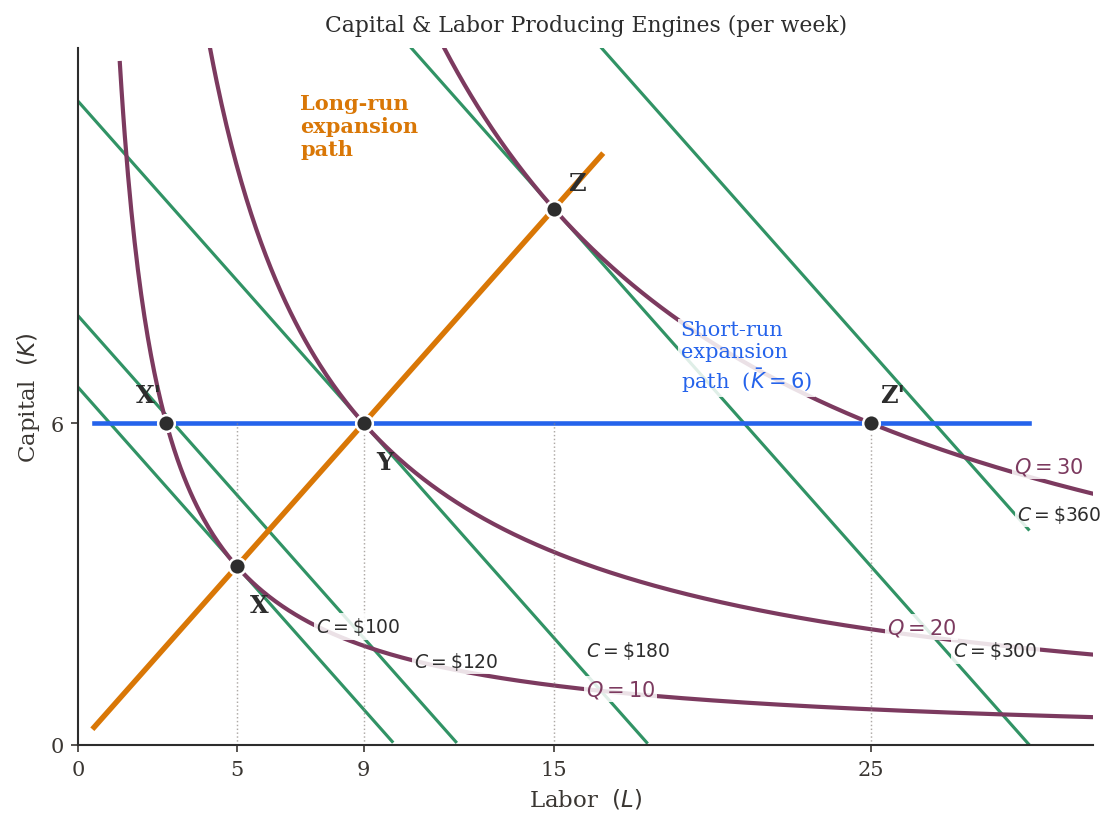
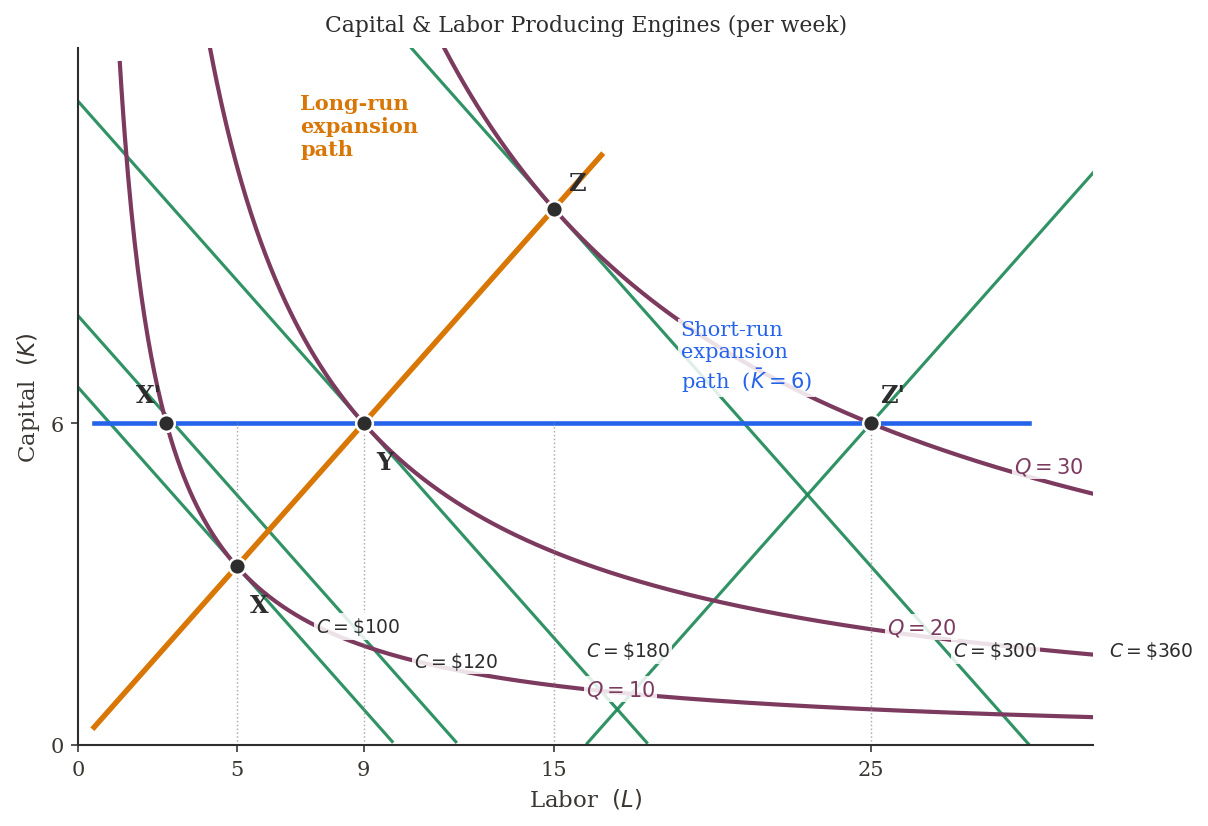
ch08: route C=$360 through Z' + add W8.5 explanation figure
(1) Engines isoquants figure: override the $360 isocost line so it passes through Z' = (25, 6) exactly. The other 4 isocost lines ($100, $120, $180, $300) keep their original formula-based positions. The $360 label is now schematic (the actual cost along the line, with w=10/r=15, is $340), but the visual relationship 'Z' lies on the C=$360 line' now reads correctly.

(2) Walkthrough 8.5 companion figure: new fig-engines-w85-stc-kbar4.png shows the SR cost curve STC(q; K-bar=4) plotted against the LR envelope LRC(q) = 0.02721q. Marks the 4 W8.5 table points (q=16/32/48/64), the SR-LR tangency at q=47.79, and the $49M/yr SR-LR wedge at the firm's current target q=32. Replaces the previous 5-K-bar envelope slide (sr-lr-envelope-figure) — the new slide id is walkthrough-8-5-figure and sits immediately after walkthrough-8-5 in the deck.

Section count: 83 (unchanged — slide swap in place).

diff --git a/econ2316/ch08-costs-of-production/index.html b/econ2316/ch08-costs-of-production/index.html
@@ -2319,16 +2319,18 @@
   <aside class="notes">Walkthrough 8.5 — the algebraic backbone of the headline LR-envelope figure on the next slide. Pacing: open with Problem + (under Set up box, hidden) — give students 60 seconds to write down the formulas. Press → to reveal Set up (1), then the 4-row Solve table (2). At this point students should notice SR &gt; LR everywhere except near q ≈ 48. Press → for the tangency calculation (3): K̄ = K*_LR(q) = 0.0837·q solves to q = 47.79 GWh, where STC exactly equals LRC = 1.300. Final → reveals (4) the Check + Takeaway connecting back to W8.1: the \$49M wedge at q=32 is IDENTICAL to the installed-bundle wedge from W8.1, because the firm's actual K=4 IS the SR-fixed K̄=4 here. Sets up the next slide's gigafactory TC-envelope visualization. Key teaching moves: (i) under CRS Cobb-Douglas, LRC is LINEAR in q (0.02721·q); (ii) SR cost is convex above LRC, tangent at exactly one q for each K̄; (iii) the SR-LR gap is asymmetric — over-capitalized firms at low q hurt more than under-capitalized firms at high q, because the marginal cost of labor diverges as L grows large.</aside>
 </section>
 
-<!-- ===== Slide 28 — Gigafactory TC envelope (existing) ===== -->
-<section id="sr-lr-envelope-figure">
-  <h2><i class="fa-solid fa-chart-area" style="color: var(--accent-color);"></i> The Headline Figure &mdash; LR Cost as Lower Envelope of SR Curves</h2>
+<!-- ===== NEW — W8.5 explanation figure (replaces the old envelope figure) ===== -->
+<section id="walkthrough-8-5-figure">
+  <h2><i class="fa-solid fa-chart-area" style="color: var(--accent-color);"></i> Walkthrough 8.5 &mdash; Reading the SR vs LR Cost Picture</h2>
   <div style="text-align: center;">
-    <img alt="Family of short-run total cost curves (K-bar = 1, 2, 4, 6, 8 B$) and the linear long-run envelope under CRS Cobb-Douglas; each SR curve is tangent to LR at the output where K-bar is the LR-optimal capital stock; the gigafactory operating point (q=32, c*=0.87) sits at the LR optimum" src="figures/fig-sr-lr-envelope.png" class="figure" style="max-height: 420px;">
+    <img alt="Walkthrough 8.5 explanation figure. The horizontal axis is quantity of batteries q in GWh/yr (ticks at 0, 16, 32, 48, 64). The vertical axis is total cost in billion dollars per year. A dark-blue straight line from the origin is the LR envelope LRC(q) = 0.02721·q. A light-blue convex curve is the SR cost STC(q; K-bar=4); it starts at the fixed-cost intercept r·K-bar = 0.52 at q=0 and rises convexly. Four black dots mark the W8.5 table points on the SR curve at (16, $0.65B), (32, $0.92B), (48, $1.31B), and (64, $1.79B). A red dot at (47.79, $1.30B) marks the SR-LR tangency where STC = LRC. An orange vertical segment at q=32 connects the LR point ($0.87B) to the SR point ($0.92B), annotated as the $49M/yr SR-LR wedge — the gap at the firm's current target output." src="figures/fig-engines-w85-stc-kbar4.png" class="figure" style="max-height: 470px;">
   </div>
-  <div class="key-result" style="margin-top: 8px;">
-    <p style="margin: 0; font-size: 12.5pt;"><strong>Reading the figure.</strong> Each SR curve has its own minimum at a different output. The LR curve sits <em>below</em> all of them, touching each one at the output where that \(\bar K\) is the LR-optimal capital stock. Under CRS, the LR envelope is <strong>linear</strong> &mdash; \(c_{LR}(q) = 0.0272 \cdot q\). <em>The LR cost curve is the firm's planning curve.</em></p>
+  <div class="key-result" style="margin-top: 8px; padding: 8px 14px;">
+    <p style="margin: 0; font-size: 11.5pt; line-height: 1.45;">
+      <strong>Reading the figure.</strong> The SR curve at \(\bar K = 4\) starts at fixed cost \(r\bar K = \$0.52\)B and rises convexly. The four W8.5 table points sit on this curve. The SR curve <em>kisses</em> the LR line at \(q = 47.79\) GWh &mdash; the unique output where \(\bar K = 4\) is LR-optimal. At the firm&rsquo;s current target \(q = 32\), the SR curve sits \$0.049B = <strong>\$49M/yr above LR</strong> &mdash; identical to the installed-bundle wedge from W8.1.
+    </p>
   </div>
-  <aside class="notes">The chapter's headline figure. Two visual takeaways: (1) at each \(\bar K\), the SR curve passes BELOW the SR curves of other \(\bar K\) at outputs near where \(\bar K\) is LR-optimal, and above them elsewhere; (2) the LR envelope is the lower hull of the family. Under CRS Cobb-Douglas, LR cost is LINEAR in \(q\) — the envelope is a straight line. The dot at \(q = 32\) is where the gigafactory operates at the cost-min. The envelope construction is formalized in Calculus Corner 8.4 (the "Viner-Wong correction" — Jacob Viner's 1931 graphical mistake where his draftsman drew the envelope passing through the bottom of every SR-AC curve; Viner published anyway with a footnote). The pedagogical point: at each output, the firm should choose the \(\bar K\) that brings SR cost down to LR — but it's stuck with its installed \(\bar K\) in the short run, hence the wedge.</aside>
+  <aside class="notes">Companion figure for W8.5. Pedagogical reading: (1) The SR cost curve at K̄=4 starts at \$0.52B (the fixed cost r·K̄) and rises convexly — increasing marginal cost as the firm pushes labor onto a fixed capital stock, the chapter's central friction. (2) The LR envelope is LINEAR — that's the CRS Cobb-Douglas signature. (3) The SR curve is tangent to LR at q = 47.79 GWh, where the firm's K̄=4 happens to be the LR-optimal capital. To the LEFT of tangency the firm is over-capitalized (capital sitting underused). To the RIGHT of tangency the firm is under-capitalized (capital being overworked, labor straining). (4) At q=32 the firm is over-capitalized by ~\$1.32B of installed K (since K*_LR(32) ≈ 2.68, but K̄ = 4). The vertical orange segment shows the resulting \$49M/yr wedge — which closes only as K̄ depreciates or the firm scales up output toward q ≈ 47.79. (5) Connect to W8.1: the firm's actual installed (K, L) = (4, 4) at q = 32 IS the SR optimum at K̄ = 4 → same wedge value computed two ways. Replaces the prior 5-K̄-envelope figure; that view is conceptually summarized by the §8.7 ATC envelope on slide 52.</aside>
 </section>
 
 <!-- ===== Slide 29 — Airlines application ===== -->

diff --git a/econ2316/ch08-costs-of-production/presentation.html b/econ2316/ch08-costs-of-production/presentation.html
@@ -2319,16 +2319,18 @@
   <aside class="notes">Walkthrough 8.5 — the algebraic backbone of the headline LR-envelope figure on the next slide. Pacing: open with Problem + (under Set up box, hidden) — give students 60 seconds to write down the formulas. Press → to reveal Set up (1), then the 4-row Solve table (2). At this point students should notice SR &gt; LR everywhere except near q ≈ 48. Press → for the tangency calculation (3): K̄ = K*_LR(q) = 0.0837·q solves to q = 47.79 GWh, where STC exactly equals LRC = 1.300. Final → reveals (4) the Check + Takeaway connecting back to W8.1: the \$49M wedge at q=32 is IDENTICAL to the installed-bundle wedge from W8.1, because the firm's actual K=4 IS the SR-fixed K̄=4 here. Sets up the next slide's gigafactory TC-envelope visualization. Key teaching moves: (i) under CRS Cobb-Douglas, LRC is LINEAR in q (0.02721·q); (ii) SR cost is convex above LRC, tangent at exactly one q for each K̄; (iii) the SR-LR gap is asymmetric — over-capitalized firms at low q hurt more than under-capitalized firms at high q, because the marginal cost of labor diverges as L grows large.</aside>
 </section>
 
-<!-- ===== Slide 28 — Gigafactory TC envelope (existing) ===== -->
-<section id="sr-lr-envelope-figure">
-  <h2><i class="fa-solid fa-chart-area" style="color: var(--accent-color);"></i> The Headline Figure &mdash; LR Cost as Lower Envelope of SR Curves</h2>
+<!-- ===== NEW — W8.5 explanation figure (replaces the old envelope figure) ===== -->
+<section id="walkthrough-8-5-figure">
+  <h2><i class="fa-solid fa-chart-area" style="color: var(--accent-color);"></i> Walkthrough 8.5 &mdash; Reading the SR vs LR Cost Picture</h2>
   <div style="text-align: center;">
-    <img alt="Family of short-run total cost curves (K-bar = 1, 2, 4, 6, 8 B$) and the linear long-run envelope under CRS Cobb-Douglas; each SR curve is tangent to LR at the output where K-bar is the LR-optimal capital stock; the gigafactory operating point (q=32, c*=0.87) sits at the LR optimum" src="figures/fig-sr-lr-envelope.png" class="figure" style="max-height: 420px;">
+    <img alt="Walkthrough 8.5 explanation figure. The horizontal axis is quantity of batteries q in GWh/yr (ticks at 0, 16, 32, 48, 64). The vertical axis is total cost in billion dollars per year. A dark-blue straight line from the origin is the LR envelope LRC(q) = 0.02721·q. A light-blue convex curve is the SR cost STC(q; K-bar=4); it starts at the fixed-cost intercept r·K-bar = 0.52 at q=0 and rises convexly. Four black dots mark the W8.5 table points on the SR curve at (16, $0.65B), (32, $0.92B), (48, $1.31B), and (64, $1.79B). A red dot at (47.79, $1.30B) marks the SR-LR tangency where STC = LRC. An orange vertical segment at q=32 connects the LR point ($0.87B) to the SR point ($0.92B), annotated as the $49M/yr SR-LR wedge — the gap at the firm's current target output." src="figures/fig-engines-w85-stc-kbar4.png" class="figure" style="max-height: 470px;">
   </div>
-  <div class="key-result" style="margin-top: 8px;">
-    <p style="margin: 0; font-size: 12.5pt;"><strong>Reading the figure.</strong> Each SR curve has its own minimum at a different output. The LR curve sits <em>below</em> all of them, touching each one at the output where that \(\bar K\) is the LR-optimal capital stock. Under CRS, the LR envelope is <strong>linear</strong> &mdash; \(c_{LR}(q) = 0.0272 \cdot q\). <em>The LR cost curve is the firm's planning curve.</em></p>
+  <div class="key-result" style="margin-top: 8px; padding: 8px 14px;">
+    <p style="margin: 0; font-size: 11.5pt; line-height: 1.45;">
+      <strong>Reading the figure.</strong> The SR curve at \(\bar K = 4\) starts at fixed cost \(r\bar K = \$0.52\)B and rises convexly. The four W8.5 table points sit on this curve. The SR curve <em>kisses</em> the LR line at \(q = 47.79\) GWh &mdash; the unique output where \(\bar K = 4\) is LR-optimal. At the firm&rsquo;s current target \(q = 32\), the SR curve sits \$0.049B = <strong>\$49M/yr above LR</strong> &mdash; identical to the installed-bundle wedge from W8.1.
+    </p>
   </div>
-  <aside class="notes">The chapter's headline figure. Two visual takeaways: (1) at each \(\bar K\), the SR curve passes BELOW the SR curves of other \(\bar K\) at outputs near where \(\bar K\) is LR-optimal, and above them elsewhere; (2) the LR envelope is the lower hull of the family. Under CRS Cobb-Douglas, LR cost is LINEAR in \(q\) — the envelope is a straight line. The dot at \(q = 32\) is where the gigafactory operates at the cost-min. The envelope construction is formalized in Calculus Corner 8.4 (the "Viner-Wong correction" — Jacob Viner's 1931 graphical mistake where his draftsman drew the envelope passing through the bottom of every SR-AC curve; Viner published anyway with a footnote). The pedagogical point: at each output, the firm should choose the \(\bar K\) that brings SR cost down to LR — but it's stuck with its installed \(\bar K\) in the short run, hence the wedge.</aside>
+  <aside class="notes">Companion figure for W8.5. Pedagogical reading: (1) The SR cost curve at K̄=4 starts at \$0.52B (the fixed cost r·K̄) and rises convexly — increasing marginal cost as the firm pushes labor onto a fixed capital stock, the chapter's central friction. (2) The LR envelope is LINEAR — that's the CRS Cobb-Douglas signature. (3) The SR curve is tangent to LR at q = 47.79 GWh, where the firm's K̄=4 happens to be the LR-optimal capital. To the LEFT of tangency the firm is over-capitalized (capital sitting underused). To the RIGHT of tangency the firm is under-capitalized (capital being overworked, labor straining). (4) At q=32 the firm is over-capitalized by ~\$1.32B of installed K (since K*_LR(32) ≈ 2.68, but K̄ = 4). The vertical orange segment shows the resulting \$49M/yr wedge — which closes only as K̄ depreciates or the firm scales up output toward q ≈ 47.79. (5) Connect to W8.1: the firm's actual installed (K, L) = (4, 4) at q = 32 IS the SR optimum at K̄ = 4 → same wedge value computed two ways. Replaces the prior 5-K̄-envelope figure; that view is conceptually summarized by the §8.7 ATC envelope on slide 52.</aside>
 </section>
 
 <!-- ===== Slide 29 — Airlines application ===== -->
